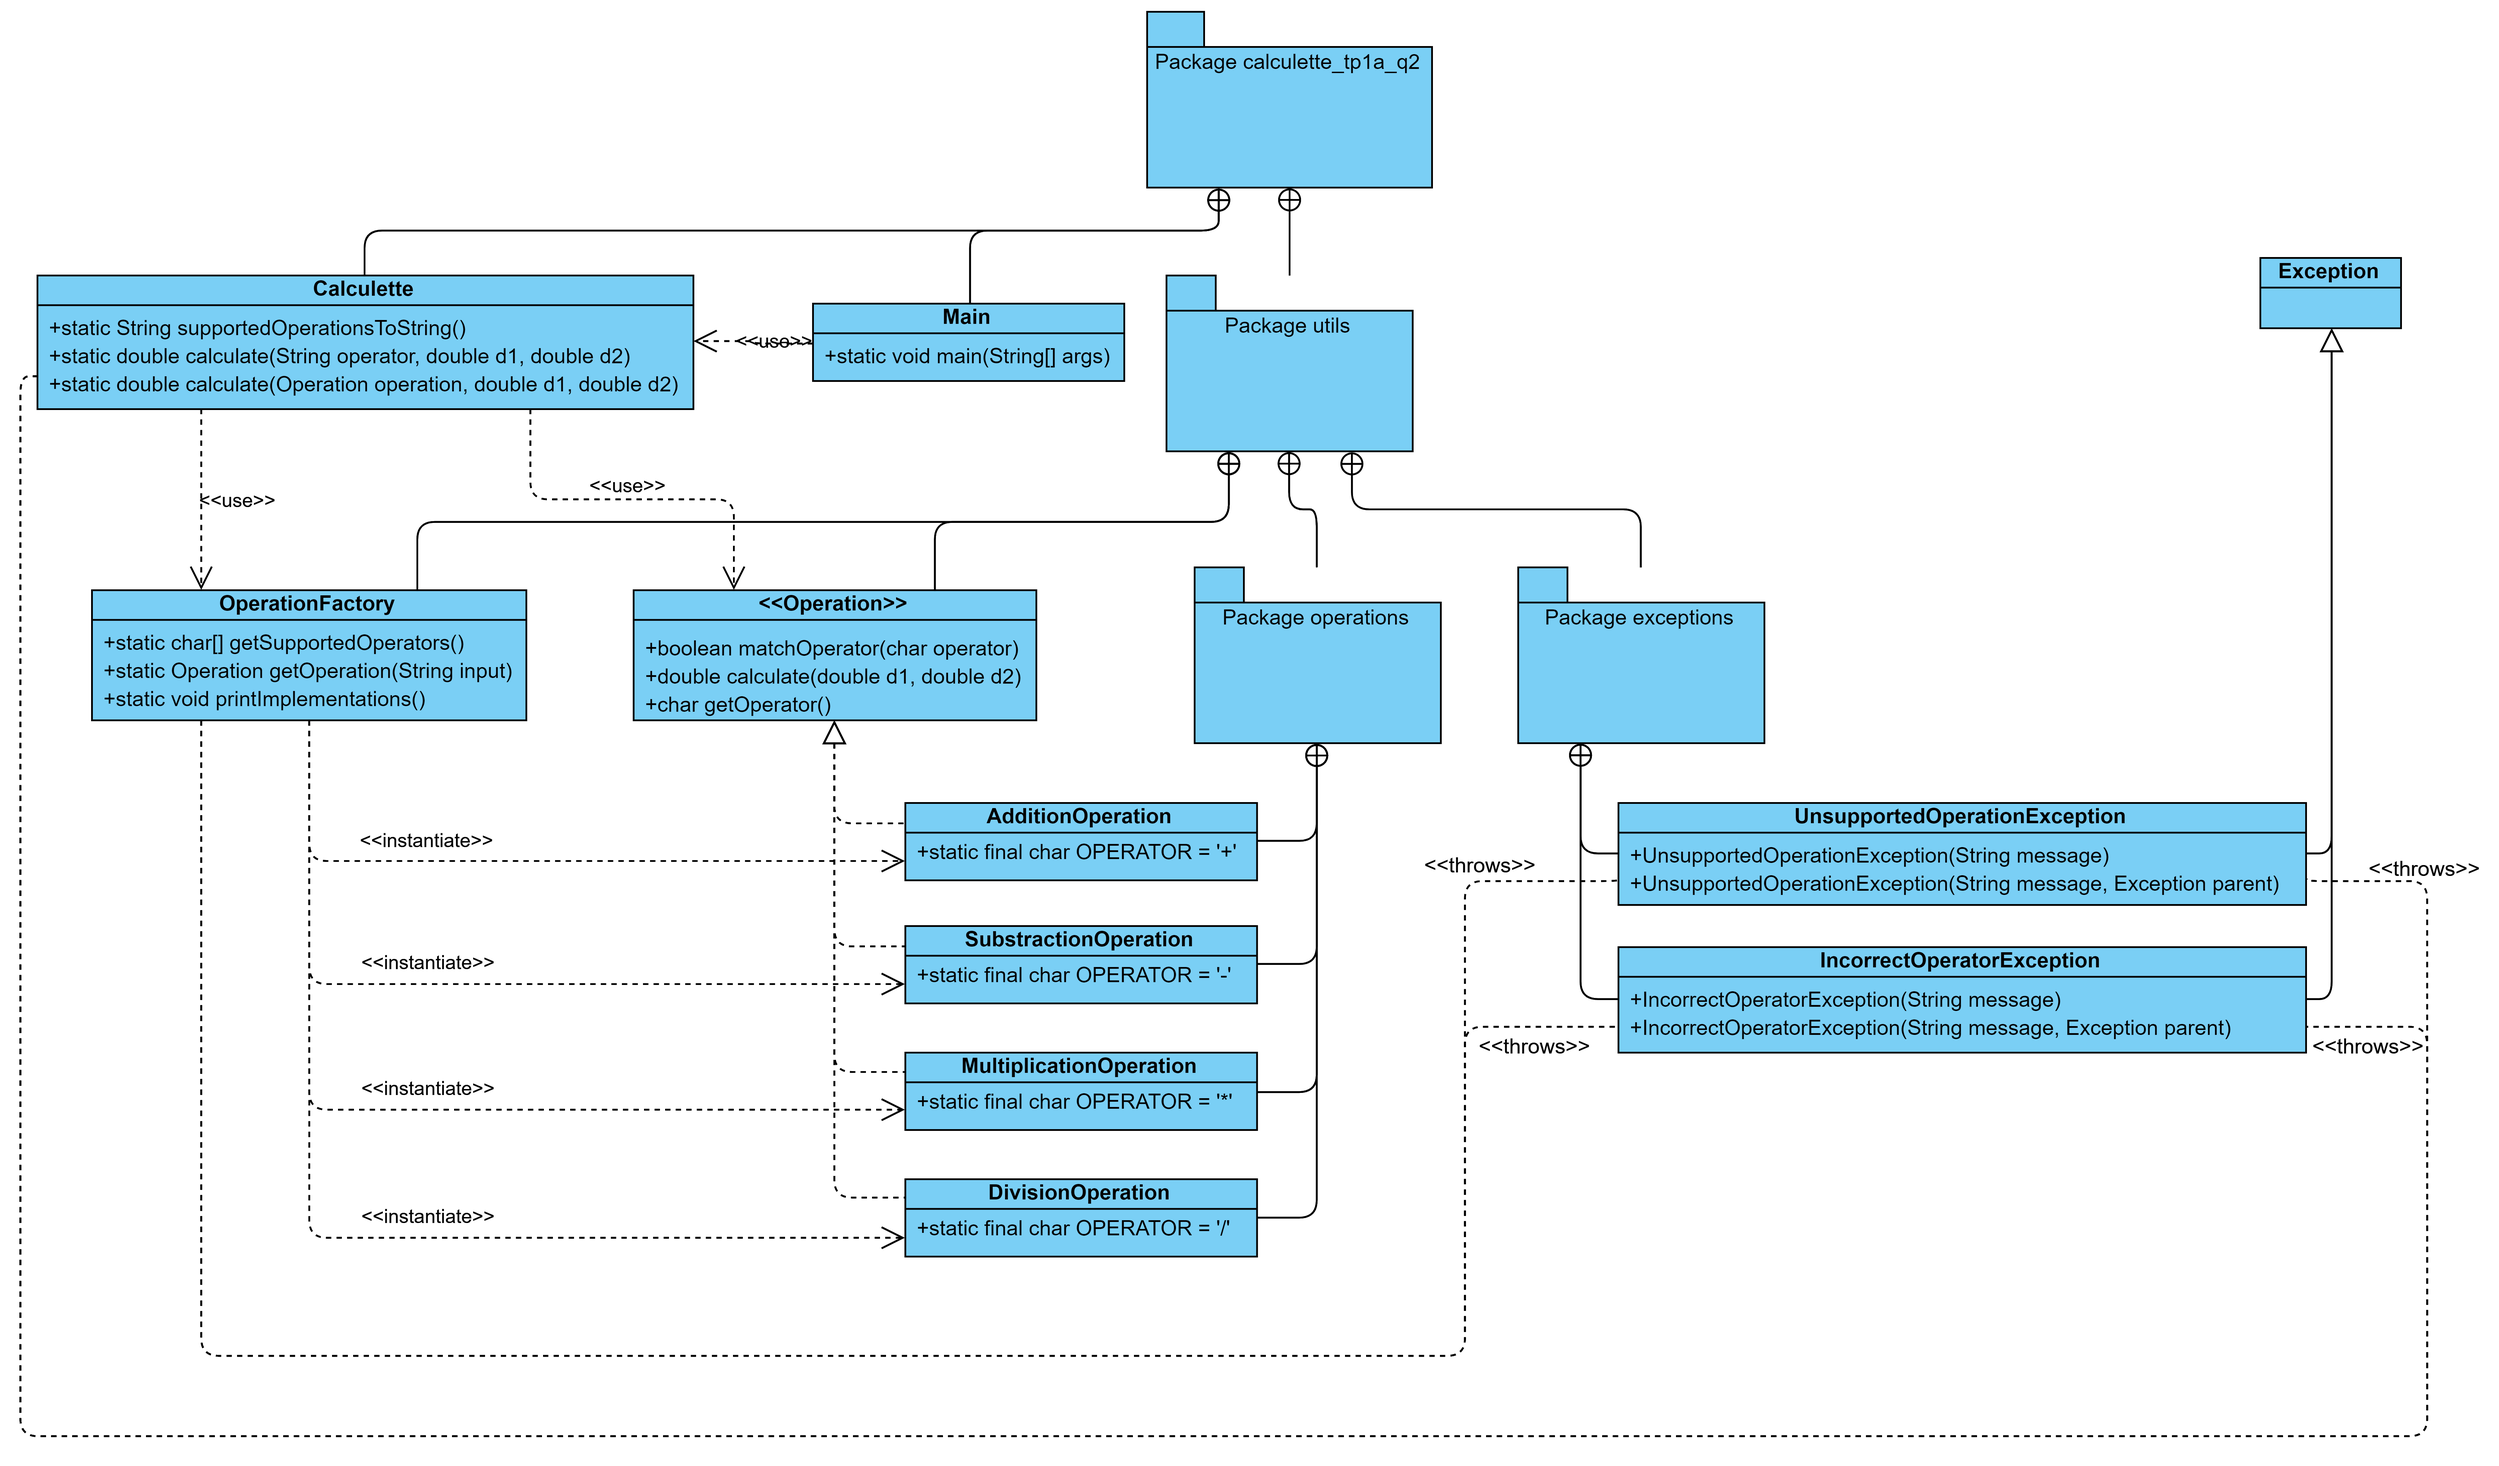
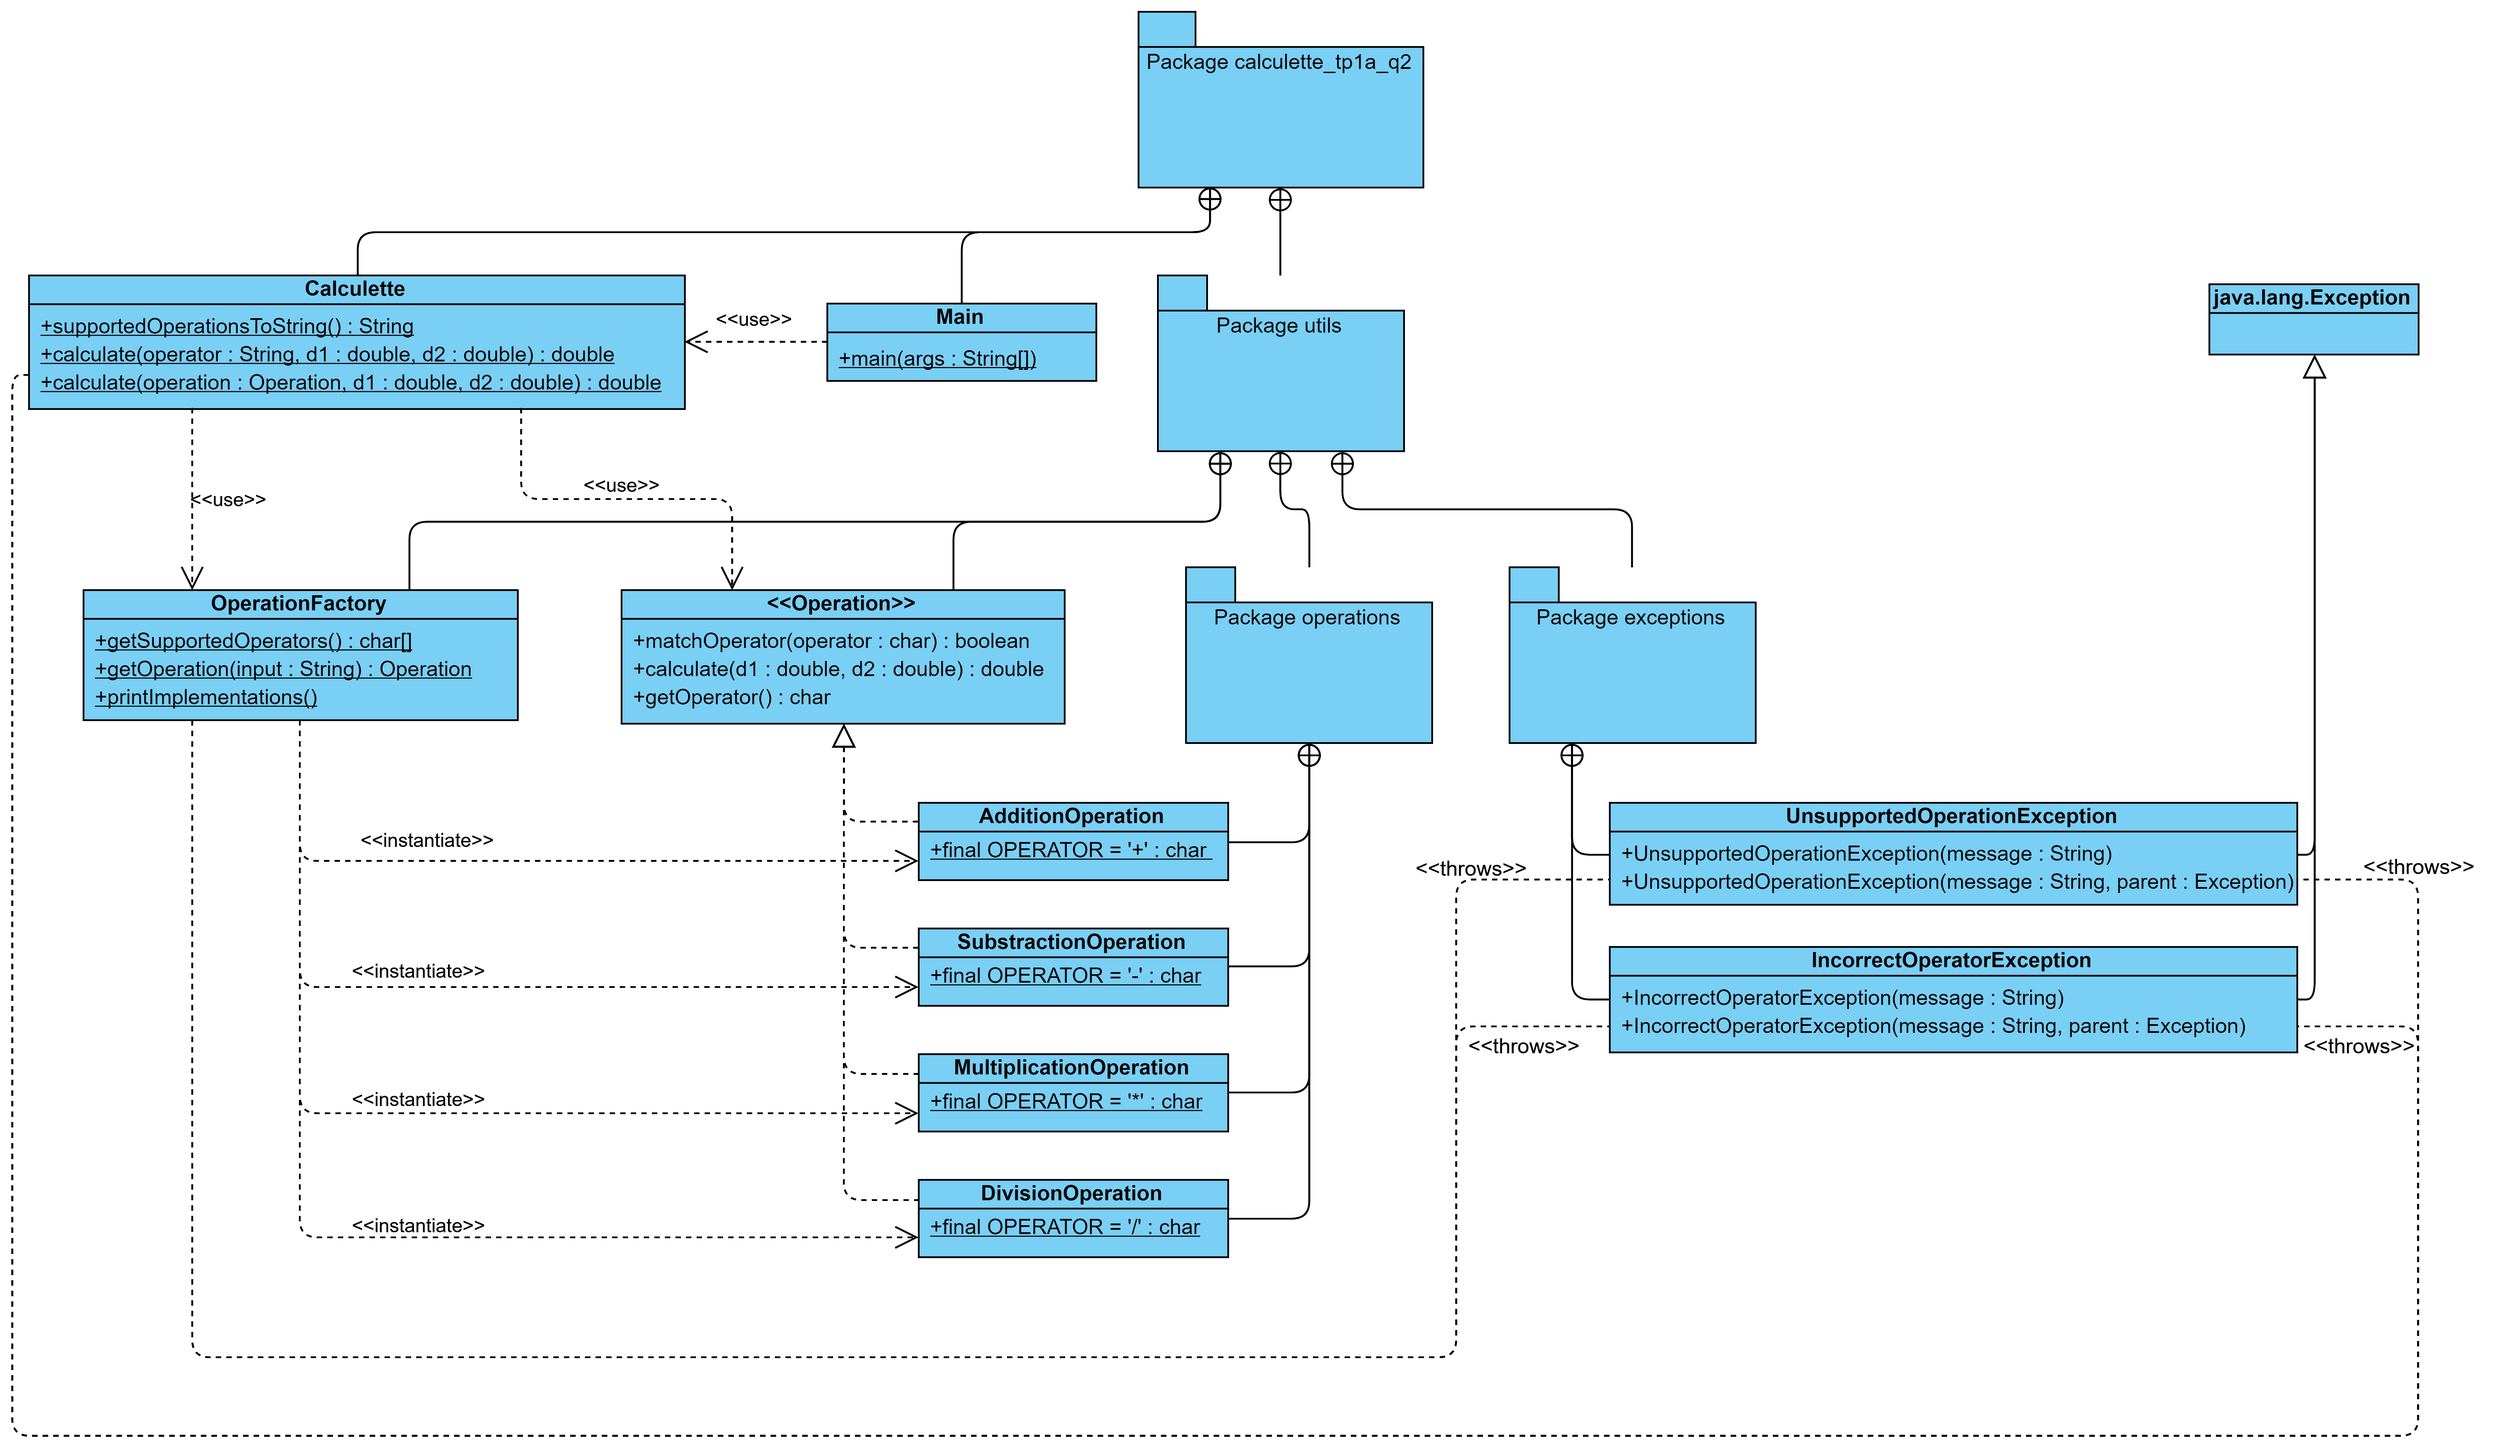
UML diagrams for tp1a

diff --git a/RAPPORTTP1a.md b/RAPPORTTP1a.md
@@ -15,7 +15,9 @@ J'ai simplement créé `4 méthodes statiques` dans la classe Calculette, qui pr
 
 Dans la classe `Main`, j'ai modifié un peu la méthode `main` pour qu'après avoir vérifié si la chaîne correspondant à l'opérateur souhaitée est bien d'une longueur de 1, on cherche l'opérateur avec un `switch...case`. Si le caractère entré n'est pas un opérateur, on affiche un message d'erreur à l'utilisateur, sinon le résultat de l'opération.
 
-Très simple à mettre en place (il ne m'a fallu que quelques minutes), cette architecture est néanmoins `très difficile à faire évoluer`, puisqu'il va falloir `modifier les 2 classes` à chaque évolution, et n'est pas très propre.
+Très simple à mettre en place (il ne m'a fallu que quelques minutes), cette architecture est néanmoins `très difficile à faire évoluer`, puisqu'il va falloir `modifier les 2 classes` à chaque évolution, et n'est pas très propre. Le diagramme UML ci-dessous montre bien la dépendance à la méthode `main` pour déterminer quelle méthode de la `Calculette` utiliser.
+
+![uml_tp1a-q1](img/tp1a-q1.png)
 
 ## Exercice 2
 *Expliquer le code ajouté, présentez votre solution (diagramme UML ou texte), conclusion(s) ?*
